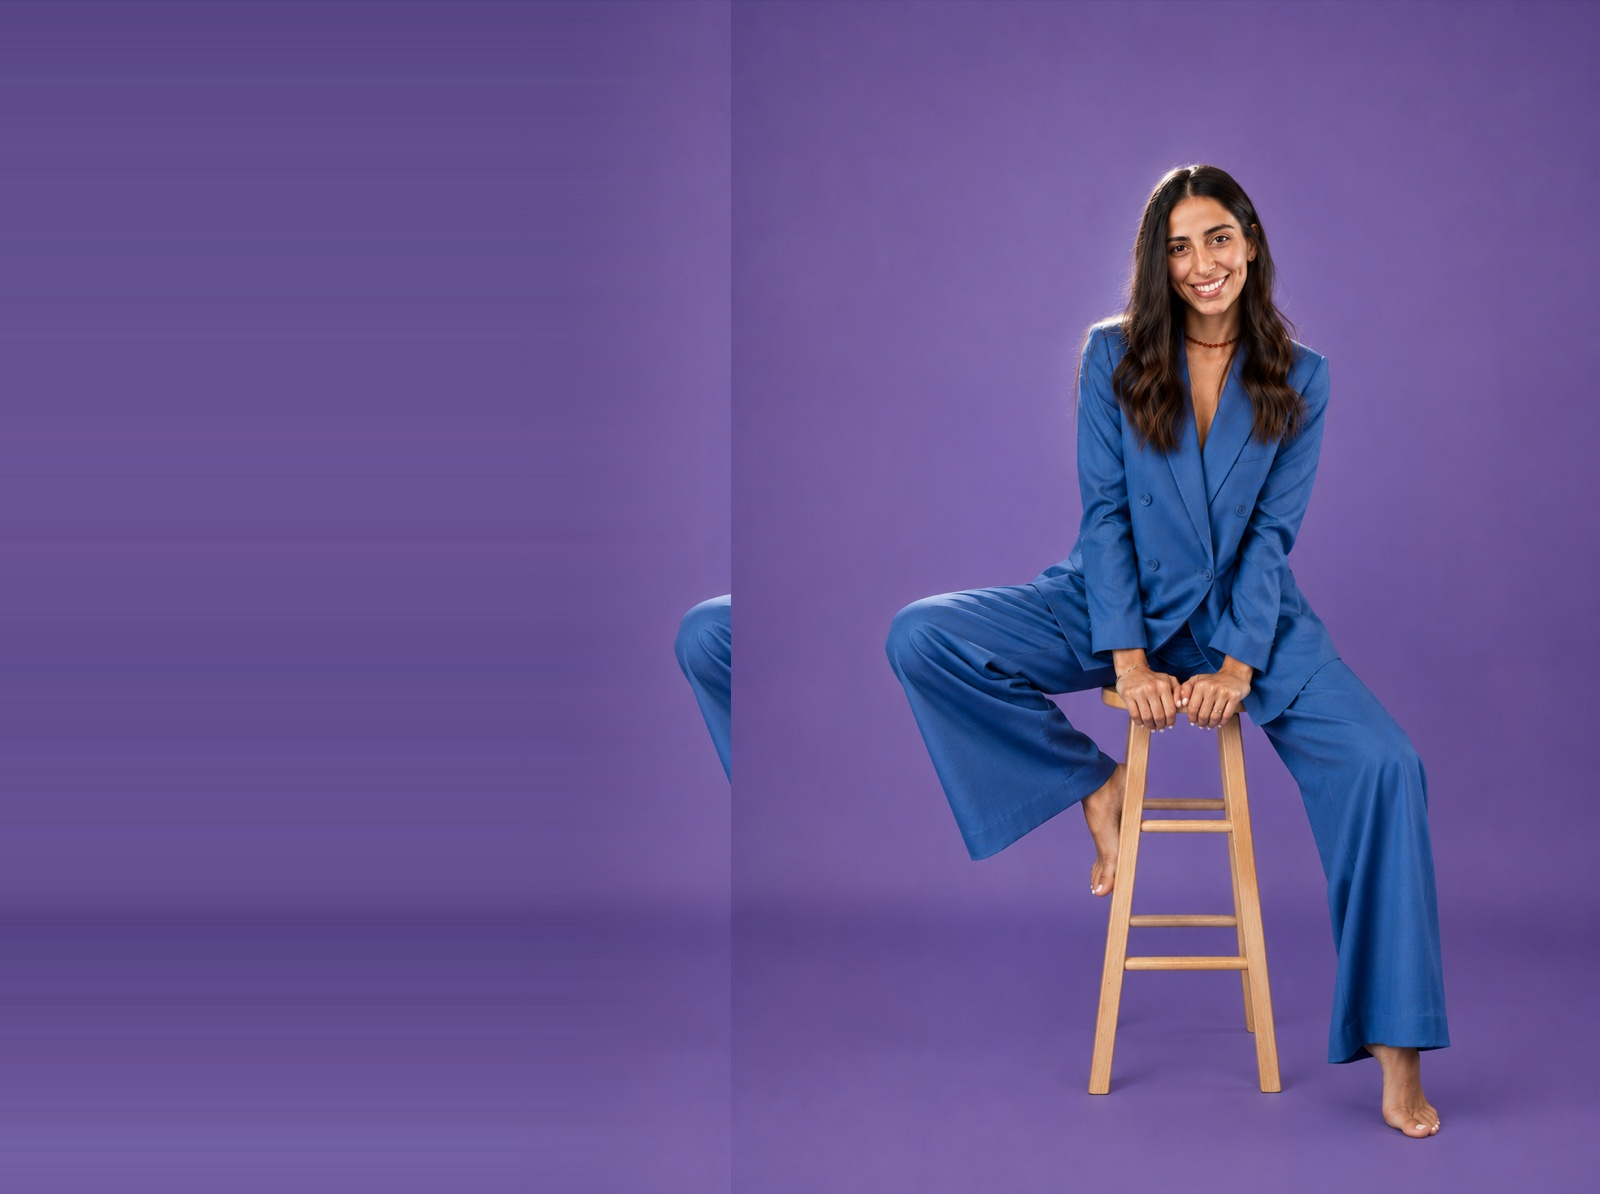
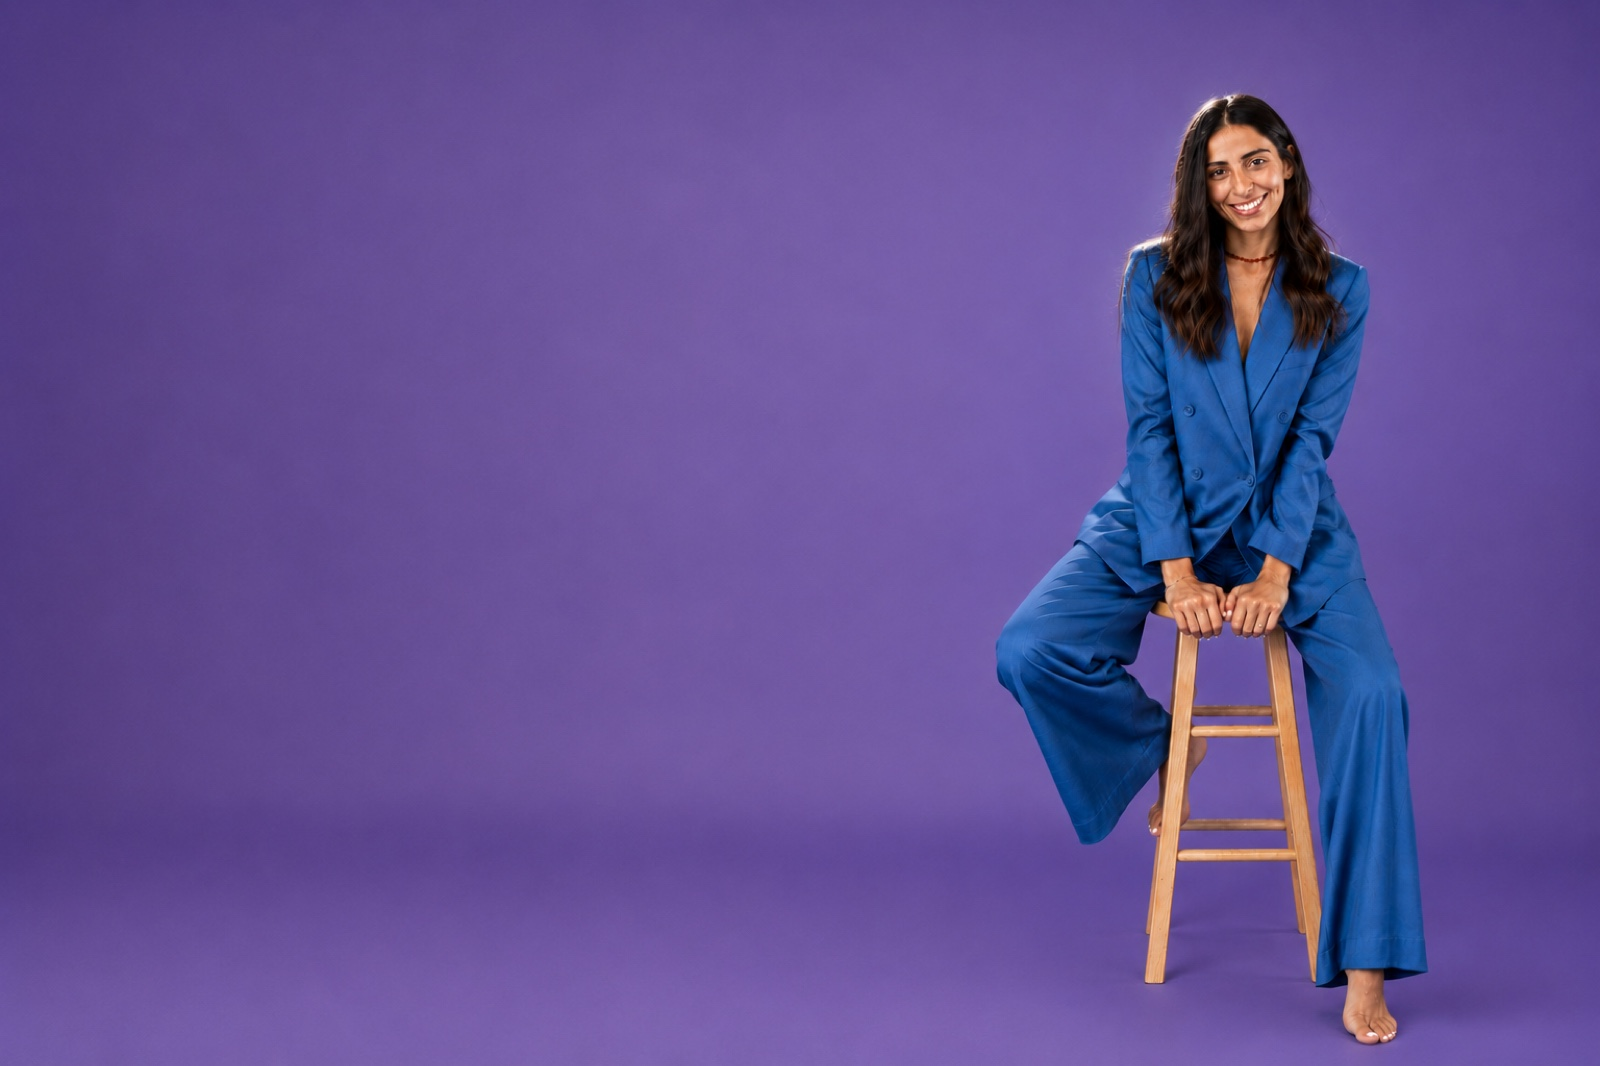
Use Eve's new hero photo (real purple space on the left, no synthetic extension needed) and add a 3D CTA button under the heading
She generated a new portrait with generous purple background already
composed on the left side, replacing the need for the artificial
background-extension trick from the previous photo. Adjusted the
section's aspect-ratio to match this image's real proportions
(1536x1024) and recentered the crop. Added the existing .btn-primary
button (already styled with a layered "pressable 3D" shadow elsewhere
on the page) below the heading stack, reusing the established button
language rather than inventing a new style.

Changed region(s): [[0.5312, 0.0929, 0.9375, 0.9906], [0.4062, 0.4953, 0.4688, 0.6501]]

diff --git a/index.html b/index.html
@@ -88,27 +88,30 @@ img,svg{display:block;max-width:100%;}
 
 .hero.hero-new{
   position:relative; overflow:hidden;
-  background: url('assets/eve-hero-stool-wide.jpg') right center / cover no-repeat;
-  aspect-ratio:1970/1470; max-height:56vh; min-height:260px;
+  background: url('assets/eve-hero-stool-wide.jpg') center center / cover no-repeat;
+  aspect-ratio:1536/1024; max-height:60vh; min-height:280px;
 }
 .hero-side-text{
   position:absolute; top:50%; left:5%; transform:translateY(-50%);
-  max-width:44%; text-align:start;
+  max-width:42%; text-align:start;
   animation:heroFloat 4.5s ease-in-out infinite;
 }
 @keyframes heroFloat{ 0%,100%{transform:translateY(-50%);} 50%{transform:translateY(calc(-50% - 8px));} }
 @media (prefers-reduced-motion:reduce){ .hero-side-text{animation:none;} }
 .hero-title-stack{
   font-family:'Fredoka','Rubik',sans-serif; font-weight:700; line-height:.98;
-  font-size:clamp(1.8rem,6.2vw,3.4rem); margin:0;
+  font-size:clamp(1.8rem,6.2vw,3.4rem); margin:0 0 20px;
 }
 .hero-title-stack span{display:block;}
 .hero-title-stack .l1{color:var(--coral);}
 .hero-title-stack .l2{color:var(--periwinkle);}
 .hero-title-stack .l3{color:var(--peach);}
+.hero-side-text .btn-primary{
+  font-size:clamp(.8rem,2vw,1rem); padding:.7em 1.3em;
+}
 @media (max-width:760px){
-  .hero.hero-new{aspect-ratio:1970/1520;max-height:none;background-position:78% center;}
-  .hero-side-text{max-width:56%;left:4%;}
+  .hero.hero-new{aspect-ratio:1536/1180;max-height:none;background-position:70% center;}
+  .hero-side-text{max-width:54%;left:4%;}
 }
 .hero-new-below{
   background:var(--periwinkle); text-align:center;
@@ -945,6 +948,7 @@ html.a11y-underline a{text-decoration:underline !important;}
 <section class="hero hero-new">
   <div class="hero-side-text">
     <h1 class="hero-title-stack"><span class="l1">קורס</span><span class="l2">יצירת תוכן</span><span class="l3">עם איב.</span></h1>
+    <a class="btn btn-primary" href="#pricing">אני רוצה להתחיל ליצור תוכן</a>
   </div>
 </section>
 <div class="hero-new-below">
